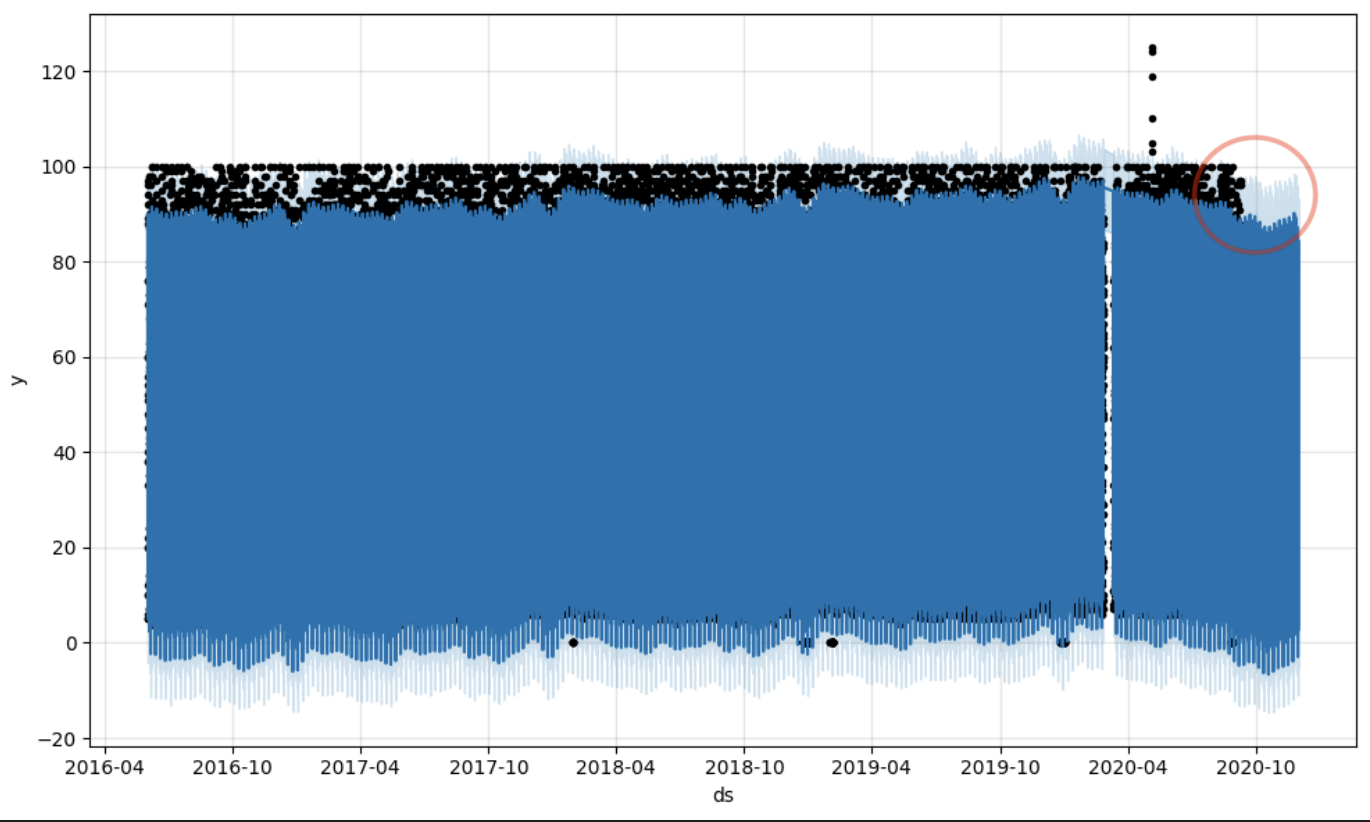
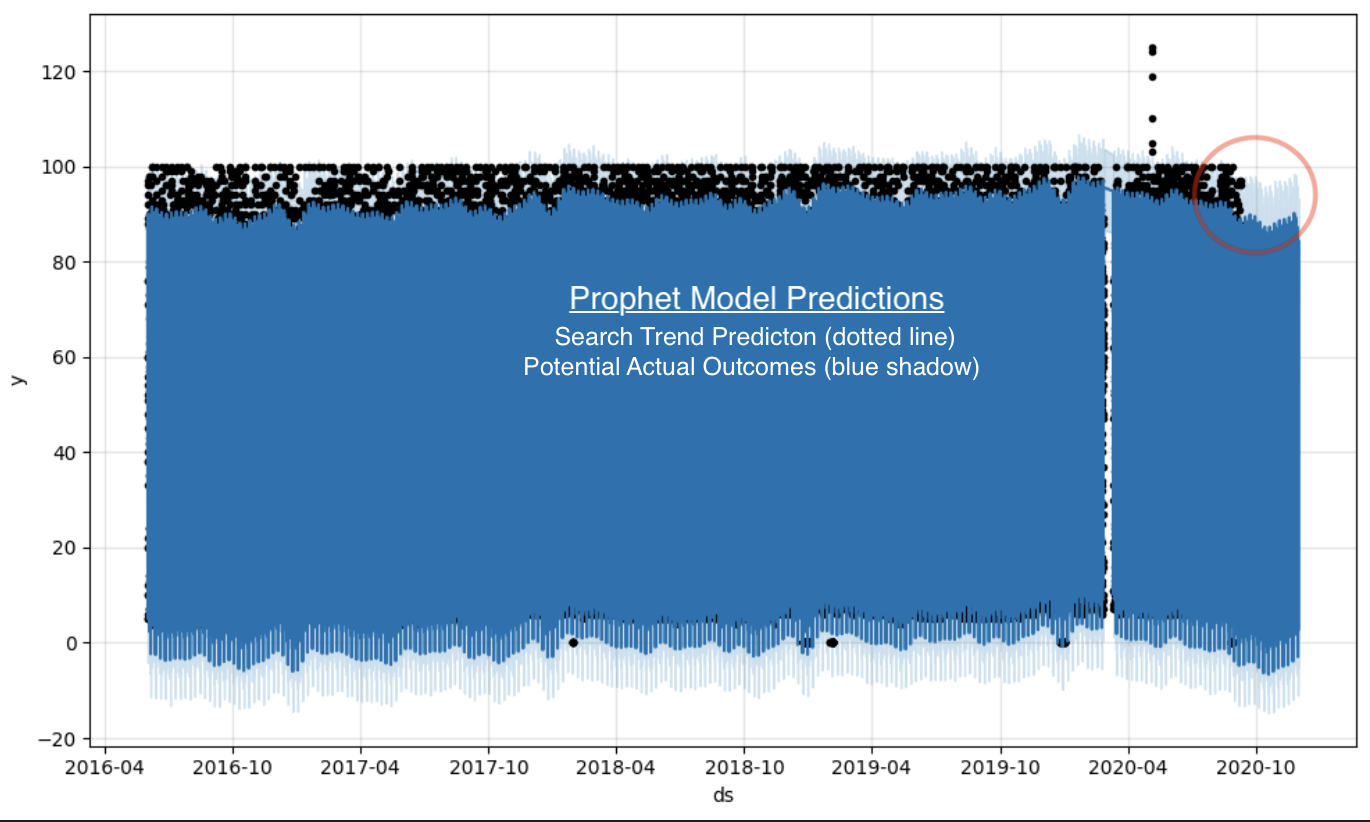
readme spell check complete

Changed region(s): [[0.3679, 0.3345, 0.7051, 0.4562]]

diff --git a/README.md b/README.md
@@ -72,13 +72,9 @@ Future interest would be to zoom in on this data around the month of October to 
 #### Step 3 -- This visualization shows the combined dataframes over the first half of the year
 <img src="/images/combined.png" width="600" height="300">
 
-#### Step 4  -- Prophet Model Predictions -- Search Trend Predicton (dotted line) | Potential Actual Outcomes (blue shadow)
+#### Step 4  -- Prophet Model Predictions 
 <img src="/images/screenshot6.png" width="600" height="300">
-
-#### Step 4 -- Yhat (predictive values for each day) -- Upper/Lower (Search trend predictive range for each day)
 <img src="/images/screenshot7.png" width="600" height="300">
-
-#### Step 4 -- Forecast Results -- Search Trend Date (prediction), Day of Week, Day of year, and Hour of Day
 <img src="/images/screenshot8.png" width="600" height="300">
 
 
